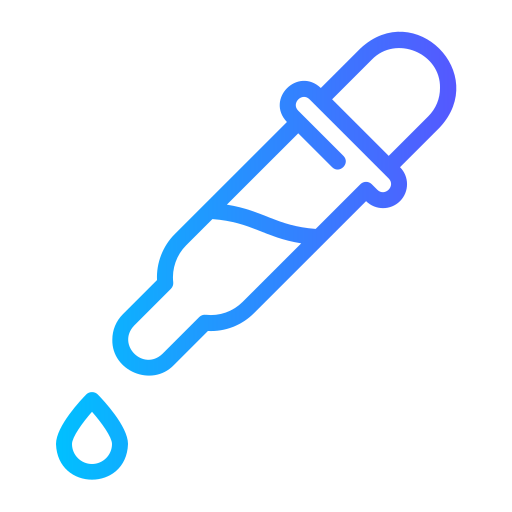
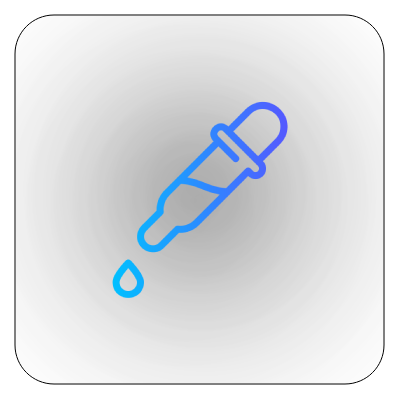
Atualiza ícones, cores e comportamento da UI
Mudanças no `ColorMaker.csproj`:
- Cor do ícone do aplicativo alterada para `Transparent`.
- Atualização das cores em `Colors.xaml`, incluindo `PrimaryDark` e `PrimaryDarkText`.

Alterações em `MainPage.xaml`:
- Adição de comportamento para barra de status transparente.
- Modificações nas cores de fundo e texto com suporte a temas.

Atualizações em `MainPage.xaml.cs`:
- Inclusão de namespaces do CommunityToolkit.

Mudanças em `MauiProgram.cs`:
- Dimensões da janela alteradas para `400x650`.

Modificações em `MainActivity.cs`:
- Implementação de métodos para tela cheia e adição de comentários explicativos.

Alterações em imagens (`appicon.png` e `copyicon.png`):
- Atualizações visuais, detalhes não disponíveis devido à natureza binária.

diff --git a/ColorMaker/MainPage.xaml b/ColorMaker/MainPage.xaml
@@ -1,9 +1,25 @@
 <?xml version="1.0" encoding="utf-8" ?>
 <ContentPage xmlns="http://schemas.microsoft.com/dotnet/2021/maui"
              xmlns:x="http://schemas.microsoft.com/winfx/2009/xaml"
+             xmlns:toolkit="http://schemas.microsoft.com/dotnet/2022/maui/toolkit"
              x:Class="ColorMaker.MainPage"
-             NavigationPage.HasNavigationBar="False"
+             
              >
+    
+<!--
+    <ContentPage.Behaviors>
+        <toolkit:StatusBarBehavior StatusBarColor="Fuchsia" StatusBarStyle="LightContent" />
+    </ContentPage.Behaviors>
+-->
+    <!-- Este codigo deja la bara de estado transparente 
+    Necesario acrescentar antes en el ContentPage 
+    xmlns:toolkit="http://schemas.microsoft.com/dotnet/2022/maui/toolkit"
+    Explicaacion detallada: https://stackoverflow.com/questions/73926834/net-maui-transparent-status-bar
+    -->
+    <Page.Behaviors>
+        <toolkit:StatusBarBehavior StatusBarColor="Transparent" StatusBarStyle="LightContent" />
+    </Page.Behaviors>
+
     <!-- Informativo
     Para la Aplicacion estar en Pantalla Completa fue colocado codigo en el archivo "MauiProgram.cs" Windows y 
     "Platforms/Android/MainActivity.cs" para Android
@@ -24,7 +40,9 @@
     <!-- 
     Grid sera usado para definir los elementos por medidas fijas
     -->
-    <Grid BackgroundColor="#DFE2E3">
+    <Grid 
+        Margin="0,0,0,0"
+        BackgroundColor="#DFE2E3">
         <!--
         Borde usado para criar la caja contenedora de los elementos
         https://learn.microsoft.com/pt-br/dotnet/maui/user-interface/controls/border?view=net-maui-9.0
@@ -34,7 +52,7 @@
         <Border  
             Margin="10,0,10,0" 
             VerticalOptions="Center"
-            Background="{StaticResource BackgroundColor}"
+            Background="{AppThemeBinding Light={StaticResource Primary}, Dark={StaticResource PrimaryDark}}"
             StrokeThickness="2"
             Padding="10,10"
             StrokeShape="RoundRectangle 20,0,0,20"
@@ -48,11 +66,12 @@
                     FontSize="Large"
                     HorizontalTextAlignment="Center"
                     Text="Color Maker"
-                    TextColor="{StaticResource TextColor}"
+                    
+                    TextColor="{AppThemeBinding Light={StaticResource TextColor}, Dark={StaticResource PrimaryDarkText}}"
                 />
                 <Label 
                     Text="Valor Rojo:"
-                    TextColor="{StaticResource TextColor}"
+                    TextColor="{AppThemeBinding Light={StaticResource TextColor}, Dark={StaticResource PrimaryDarkText}}"
                  />
                 <!--Cada Slider tem um manipulador de evento llamado "Value Change"-->
                 <Slider 
@@ -64,7 +83,7 @@
                 />
                 <Label 
                     Text="Valor Verde:"
-                    TextColor="{StaticResource TextColor}"
+                    TextColor="{AppThemeBinding Light={StaticResource TextColor}, Dark={StaticResource PrimaryDarkText}}"
                  />
                 <Slider 
                     x:Name="slVerde"
@@ -75,7 +94,7 @@
                 />
                 <Label 
                     Text="Valor Azul:"
-                    TextColor="{StaticResource TextColor}"
+                    TextColor="{AppThemeBinding Light={StaticResource TextColor}, Dark={StaticResource PrimaryDarkText}}"
                  />
                 <Slider 
                     x:Name="slAzul"
@@ -93,14 +112,14 @@
                             HorizontalTextAlignment="Start"
                             Text="Valor HEX: "
                             VerticalOptions="Center"
-                            TextColor="{StaticResource TextColor}"
+                            TextColor="{AppThemeBinding Light={StaticResource TextColor}, Dark={StaticResource PrimaryDarkText}}"
                          />
                         <Label
                             x:Name="lblHex"
                             HorizontalTextAlignment="End"
                             Text="#000000"
                             VerticalOptions="Center"
-                            TextColor="{StaticResource TextColor}"
+                            TextColor="{AppThemeBinding Light={StaticResource TextColor}, Dark={StaticResource PrimaryDarkText}}"
                         />
                         <ImageButton 
                             Margin="10,0,0,0"
@@ -109,7 +128,9 @@
                             VerticalOptions="Center"
                             HorizontalOptions="Center"
                             WidthRequest="10"
-                            Clicked="ImageButton_Clicked"                            
+                            Clicked="ImageButton_Clicked"
+                            BackgroundColor="Transparent"
+                            
                             />
 
                     </HorizontalStackLayout>
@@ -118,11 +139,25 @@
                 <Button
                     x:Name="btnRandom"
                     Text="Color Aleatório"
-                    BackgroundColor="{StaticResource ButtonColor}"
+                    BackgroundColor="{AppThemeBinding Light={StaticResource ButtonColor}, Dark={StaticResource Primary}}"
                     Clicked="btnRandom_Clicked"
-                    TextColor="White"
+                    FontSize="Subtitle"
+                    TextColor="{AppThemeBinding Light={StaticResource Primary}, Dark={StaticResource PrimaryDark}}"
                     />
-
+                <Label   
+                    HorizontalTextAlignment="Center"
+                    Text="Creado por Miguel Wells"
+                    FontSize="12"
+                    VerticalOptions="Center"
+                    TextColor="{AppThemeBinding Light={StaticResource TextColor}, Dark={StaticResource PrimaryDarkText}}"
+                 />
+                <Label   
+                    HorizontalTextAlignment="Center"
+                    Text= "v 1.0"
+                    FontSize="10"
+                    VerticalOptions="Center"
+                    TextColor="{AppThemeBinding Light={StaticResource TextColor}, Dark={StaticResource PrimaryDarkText}}"
+                />
 
             </VerticalStackLayout>
             

diff --git a/ColorMaker/Resources/Styles/Colors.xaml b/ColorMaker/Resources/Styles/Colors.xaml
@@ -7,10 +7,10 @@
     <!-- Note: For Android please see also Platforms\Android\Resources\values\colors.xml -->
 
     <Color x:Key="Primary">#DFE2E3</Color>
-    <Color x:Key="PrimaryDark">#ac99ea</Color>
-    <Color x:Key="PrimaryDarkText">#242424</Color>
+    <Color x:Key="PrimaryDark">#1D1C1C</Color>
+    <Color x:Key="PrimaryDarkText">white</Color>
     <Color x:Key="Secondary">#6A98B3</Color>
-    <Color x:Key="SecondaryDarkText">#9880e5</Color>
+    <Color x:Key="SecondaryDarkText">white</Color>
     <Color x:Key="Tertiary">#6A98B3</Color>
 
     <Color x:Key="White">White</Color>

diff --git a/ColorMaker/Platforms/Android/MainActivity.cs b/ColorMaker/Platforms/Android/MainActivity.cs
@@ -5,77 +5,107 @@ using Android.Views;
 
 namespace ColorMaker;
 
-[Activity(Theme = "@style/Maui.SplashTheme", MainLauncher = true, LaunchMode = LaunchMode.SingleTop, ConfigurationChanges = ConfigChanges.ScreenSize | ConfigChanges.Orientation | ConfigChanges.UiMode | ConfigChanges.ScreenLayout | ConfigChanges.SmallestScreenSize | ConfigChanges.Density)]
+[Activity(
+    Theme = "@style/Maui.SplashTheme", MainLauncher = true, LaunchMode = LaunchMode.SingleTop, ConfigurationChanges = ConfigChanges.ScreenSize | ConfigChanges.Orientation | ConfigChanges.UiMode | ConfigChanges.ScreenLayout | ConfigChanges.SmallestScreenSize | ConfigChanges.Density)]
+
+//Splash Screen animado (https://dev.to/icebeam7/animated-splash-screen-in-net-maui-android-2ipg)
 public class MainActivity : MauiAppCompatActivity
 {
 
     //Todo este codigo es para que la aplicacion se ejecute en pantalla completa
-
-    /* protected override void OnCreate(Bundle? savedInstanceState)
-        {
-            base.OnCreate(savedInstanceState);
-            Platform.Init(this, savedInstanceState);
-
-            if (this.Window != null)
+    /*
+         protected override void OnCreate(Bundle? savedInstanceState)
             {
-                this.Window.AddFlags(WindowManagerFlags.Fullscreen);
+                base.OnCreate(savedInstanceState);
+                Platform.Init(this, savedInstanceState);
+
+                if (this.Window != null)
+                {
+                    this.Window.AddFlags(WindowManagerFlags.Fullscreen);
+                }
             }
-        }
-    */
-//*****************************  Todo este codigo es para que la aplicacion se ejecute en pantalla completa  *********************************
+       */
+    //*****************************  Todo este codigo es para que la aplicacion se ejecute en pantalla completa  *********************************
+    /* private void SetWindowLayout()
+     {
+         if (Window != null)
+         {
+             if (Build.VERSION.SdkInt >= BuildVersionCodes.R)
+             {
+ #pragma warning disable CA1416
+
+                 IWindowInsetsController? wicController = Window.InsetsController;
+
+                 if (Build.VERSION.SdkInt < BuildVersionCodes.S)
+                 {
+                     Window.SetDecorFitsSystemWindows(false);
+                 }
+                 else
+                 {
+                     // Use alternative method for Android 35.0 and later
+                     Window.SetDecorFitsSystemWindows(false); // This line is obsolete in Android 35.0 and later
+                 }
+
+                 Window.SetFlags(WindowManagerFlags.Fullscreen, WindowManagerFlags.Fullscreen);
+
+                 if (wicController != null)
+                 {
+                     wicController.Hide(WindowInsets.Type.Ime());
+                     wicController.Hide(WindowInsets.Type.NavigationBars());
+                 }
+ #pragma warning restore CA1416
+             }
+             else
+             {
+ #pragma warning disable CS0618
+
+                 Window.SetFlags(WindowManagerFlags.Fullscreen, WindowManagerFlags.Fullscreen);
+
+                 Window.DecorView.SystemUiVisibility = (StatusBarVisibility)(SystemUiFlags.Fullscreen |
+                                                                              SystemUiFlags.HideNavigation |
+                                                                              SystemUiFlags.Immersive |
+                                                                              SystemUiFlags.ImmersiveSticky |
+                                                                              SystemUiFlags.LayoutHideNavigation |
+                                                                              SystemUiFlags.LayoutStable |
+                                                                              SystemUiFlags.LowProfile);
+ #pragma warning restore CS0618
+             }
+         }
+     }
+
+     protected override void OnCreate(Bundle? bSavedInstanceState)
+     {
+         base.OnCreate(bSavedInstanceState);
+         SetWindowLayout();
+     }*/
+    //************************************************* Final del Codigo mas completo para pantalla completa *************************************************
+
+/*
     private void SetWindowLayout()
     {
-        if (Window != null)
-        {
-            if (Build.VERSION.SdkInt >= BuildVersionCodes.R)
-            {
-#pragma warning disable CA1416
 
-                IWindowInsetsController? wicController = Window.InsetsController;
-
-                if (Build.VERSION.SdkInt < BuildVersionCodes.S)
-                {
-                    Window.SetDecorFitsSystemWindows(false);
-                }
-                else
-                {
-                    // Use alternative method for Android 35.0 and later
-                    Window.SetDecorFitsSystemWindows(false); // This line is obsolete in Android 35.0 and later
-                }
-
-                Window.SetFlags(WindowManagerFlags.Fullscreen, WindowManagerFlags.Fullscreen);
-
-                if (wicController != null)
-                {
-                    wicController.Hide(WindowInsets.Type.Ime());
-                    wicController.Hide(WindowInsets.Type.NavigationBars());
-                }
-#pragma warning restore CA1416
-            }
-            else
-            {
-#pragma warning disable CS0618
-
-                Window.SetFlags(WindowManagerFlags.Fullscreen, WindowManagerFlags.Fullscreen);
-
-                Window.DecorView.SystemUiVisibility = (StatusBarVisibility)(SystemUiFlags.Fullscreen |
-                                                                             SystemUiFlags.HideNavigation |
-                                                                             SystemUiFlags.Immersive |
-                                                                             SystemUiFlags.ImmersiveSticky |
-                                                                             SystemUiFlags.LayoutHideNavigation |
-                                                                             SystemUiFlags.LayoutStable |
-                                                                             SystemUiFlags.LowProfile);
-#pragma warning restore CS0618
-            }
-        }
+        //Window.SetDecorFitsSystemWindows(false);
+        //Window.SetFlags(WindowManagerFlags.Fullscreen, WindowManagerFlags.Fullscreen);
+        //Window.SetStatusBarColor(Android.Graphics.Color.ParseColor("#F38C4D"));
+       
+        //Window.DecorView.SystemUiFlags =  SystemUiFlags.Fullscreen |
+        //SystemUiFlags.HideNavigation |
+        //SystemUiFlags.Immersive |
+        //SystemUiFlags.ImmersiveSticky |
+        //SystemUiFlags.LayoutHideNavigation |
+        //SystemUiFlags.LayoutStable// |
+        //SystemUiFlags.LowProfile
+        // ;
     }
-
     protected override void OnCreate(Bundle? bSavedInstanceState)
     {
         base.OnCreate(bSavedInstanceState);
         SetWindowLayout();
     }
-//************************************************* Final del Codigo mas completo para pantalla completa *************************************************
+
+
+*/
+
 
 }
 

diff --git a/ColorMaker/MauiProgram.cs b/ColorMaker/MauiProgram.cs
@@ -44,8 +44,8 @@ public static class MauiProgram
                     AppWindow winuiAppWindow = AppWindow.GetFromWindowId(win32WindowsId);    
                    
                     //Se define el tamano de la ventana en pixeles alto y ancho
-                    const int width = 350; 
-                    const int height = 600;
+                    const int width = 400; 
+                    const int height = 650;
 
                     if(winuiAppWindow.Presenter is OverlappedPresenter p)
                         { 

diff --git a/ColorMaker/MainPage.xaml.cs b/ColorMaker/MainPage.xaml.cs
@@ -1,5 +1,7 @@
 
 using CommunityToolkit.Maui.Alerts;
+using CommunityToolkit.Maui.Behaviors;
+using CommunityToolkit.Maui.Core;
 
 namespace ColorMaker
 {
